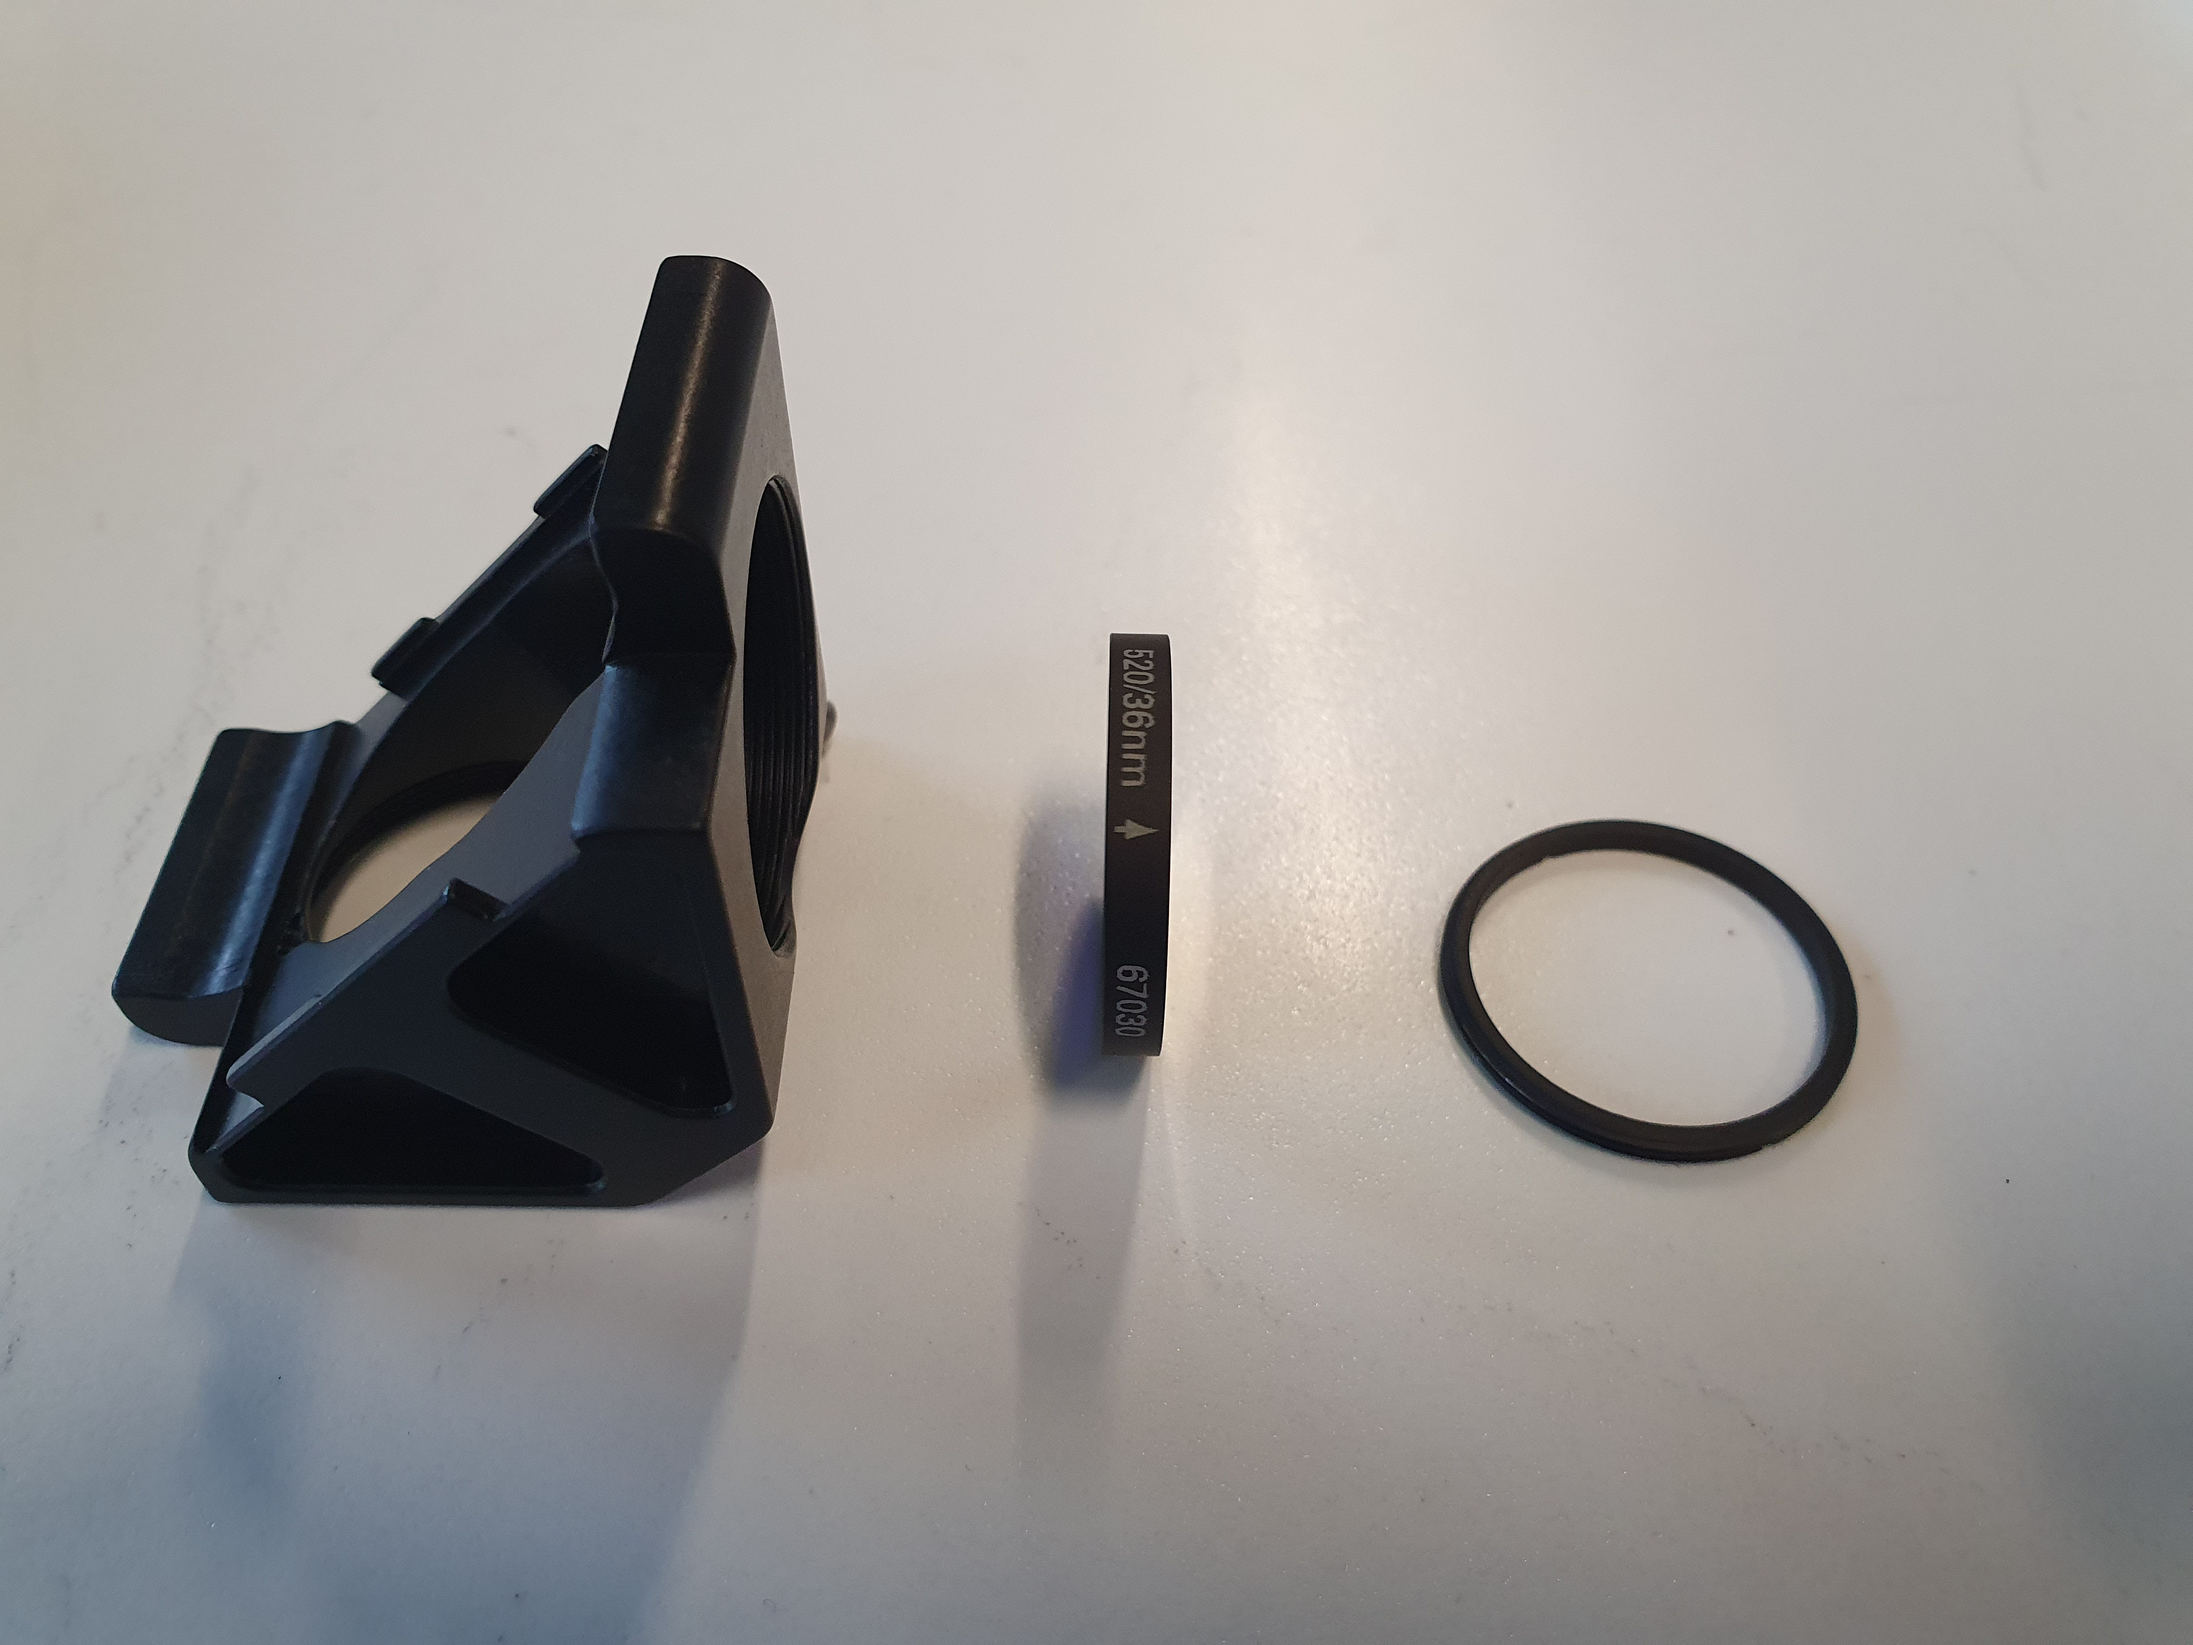
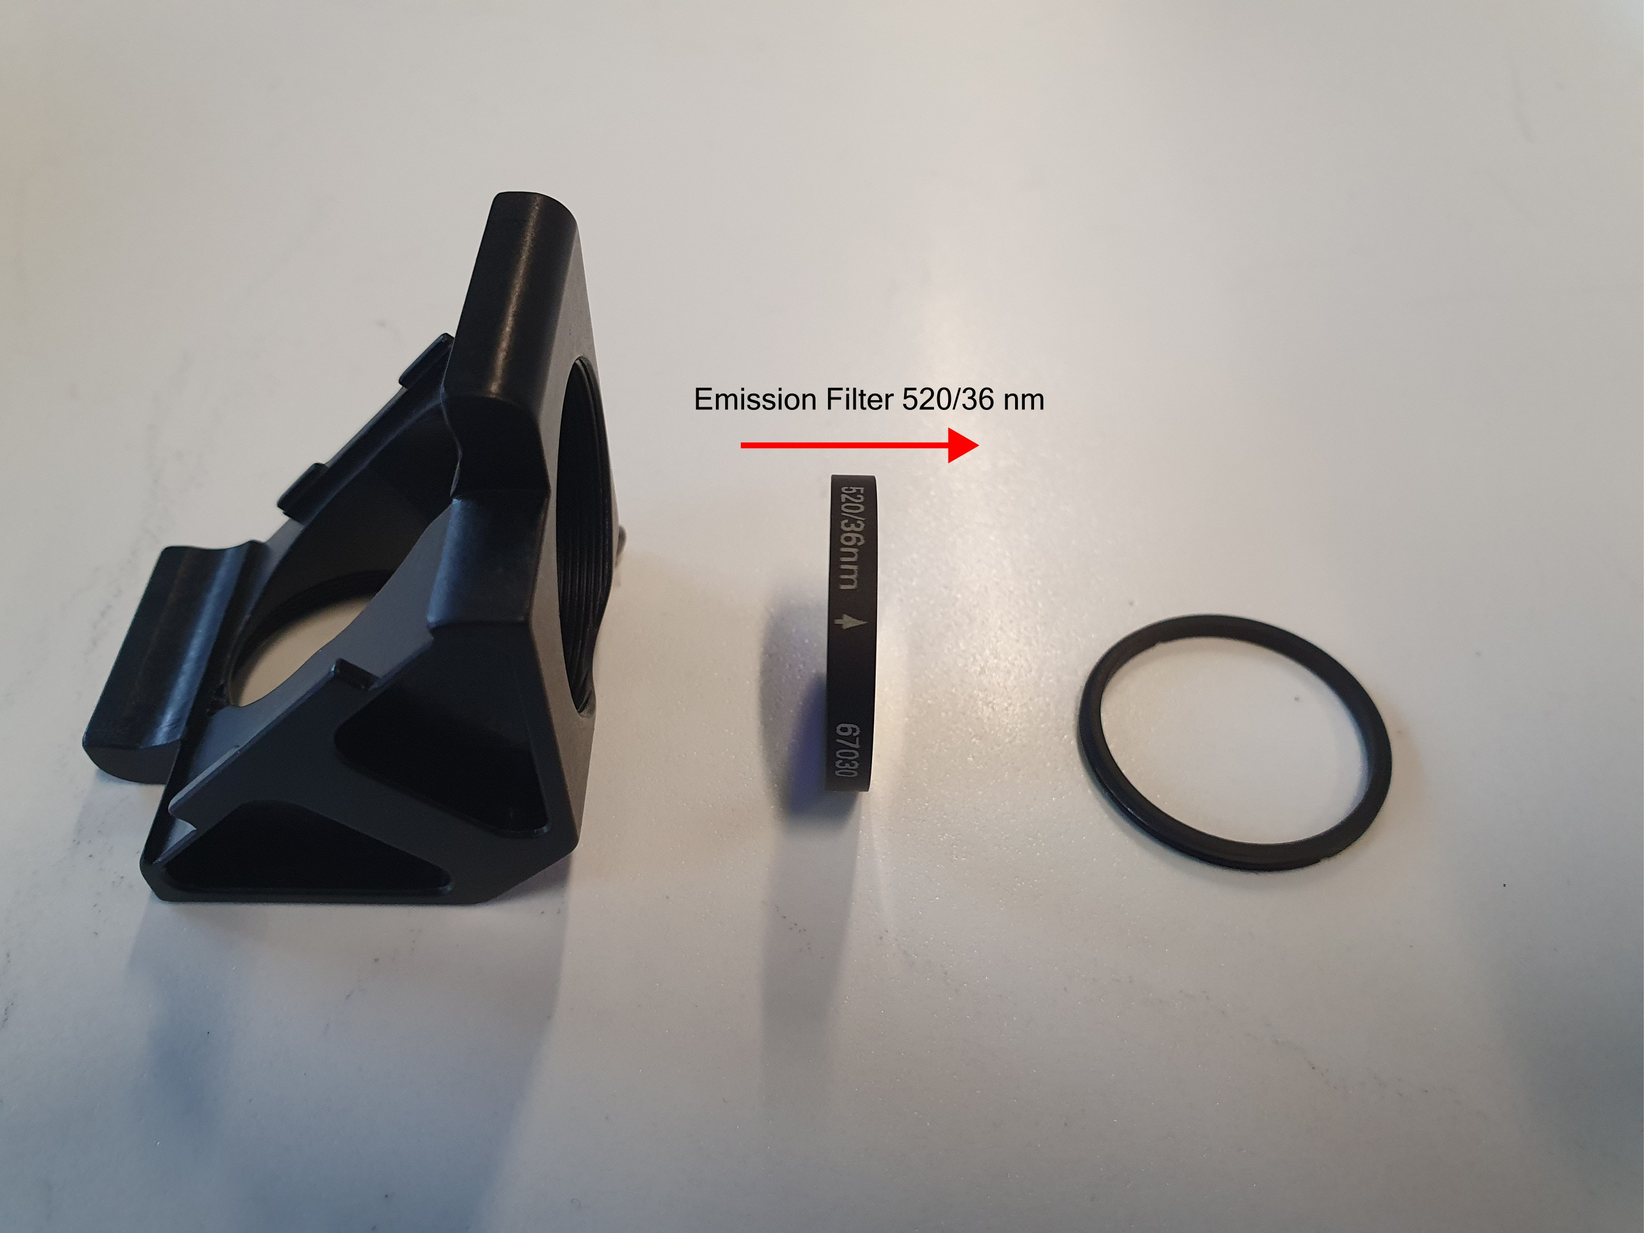
Updated filter instruction to include direction

diff --git a/docs/build_your_own.md b/docs/build_your_own.md
@@ -403,9 +403,9 @@ For this cube, you will need one 488/561 nm dichroic and a dualband excitation f
       </td>
       <td>
         <figure class="center-figure">
-            <img src="custom_assets/images/2 - optics/filtercubes/filtercube 1 - excitation/1.jpg" alt="cube" >
-            <figcaption>5. Add the excitation filter to the cube insert. Secure it with a retaining ring. The filter should sit in front of the LED when the insert is back in the lightsplitter. </figcaption>
-          </figure>
+            <img src="custom_assets/images/2 - optics/filtercubes/filtercube 1 - excitation/1.png" alt="cube" >
+            <figcaption>5. Add the excitation filter to the cube insert with the arrow pointing inward. Secure it with a retaining ring. The filter should sit in front of the LED when the insert is back in the light splitter. </figcaption>
+        </figure>
       </td>
     </tr>
   </table>
@@ -417,8 +417,25 @@ For this cube, you will need one 488/561 nm dichroic and a dualband excitation f
 </p>
 
 <p align="justify">
-  Follow the steps above to secure the dichroic. Add the two filters, the red at the top and the green at the right side of the filter. The 'top' and 'right' orientation refers to the cube's placement when you are looking at it in the macroscope.
+  Follow the steps above to secure the dichroic. Add the two filters, the red at the top and the green at the right side of the filter. The 'top' and 'right' orientation refers to the cube's placement when you are looking at it in the macroscope. Since the filters are from Semrock and Edmund Optics, the direction of the arrows should be pointing against the direction of the incoming light, i.e. outward of the cube as depicted below.
 </p>
+<table class="equal-column-table">
+    <tr>
+      <td>
+        <figure class="center-figure">
+          <img src="custom_assets/images/2 - optics/filtercubes/filtercube 2 - split/2.jpg" alt="618/50" >
+          <figcaption>Filter 618/50 nm direction</figcaption>
+        </figure>
+      </td>
+      <td>
+        <figure class="center-figure">
+          <img src="custom_assets/images/2 - optics/filtercubes/filtercube 2 - split/3.jpg" alt="520/36" >
+          <figcaption>Filter 520/36 nm direction</figcaption>
+        </figure>
+      </td>
+    </tr>
+</table>
+
 
 ### Filter cube 3 - Image splitter cube without emission filters
 <p align="justify">
